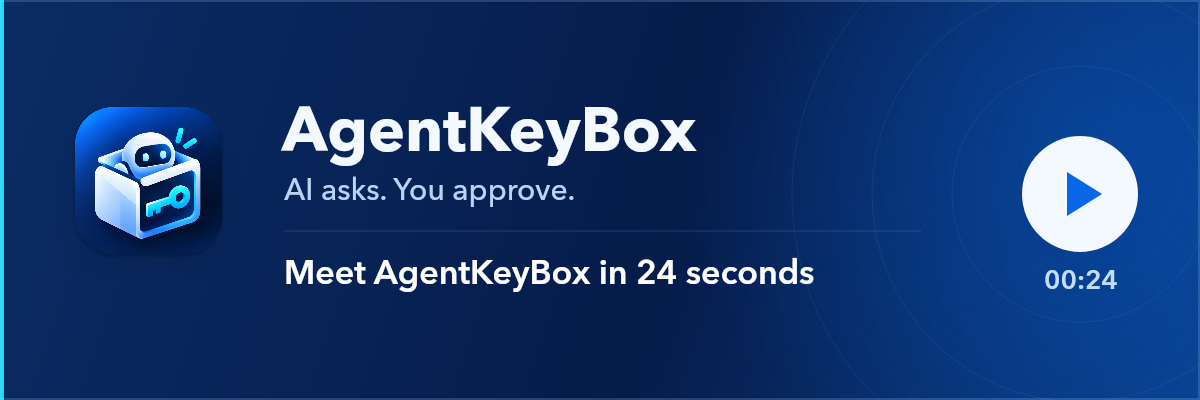
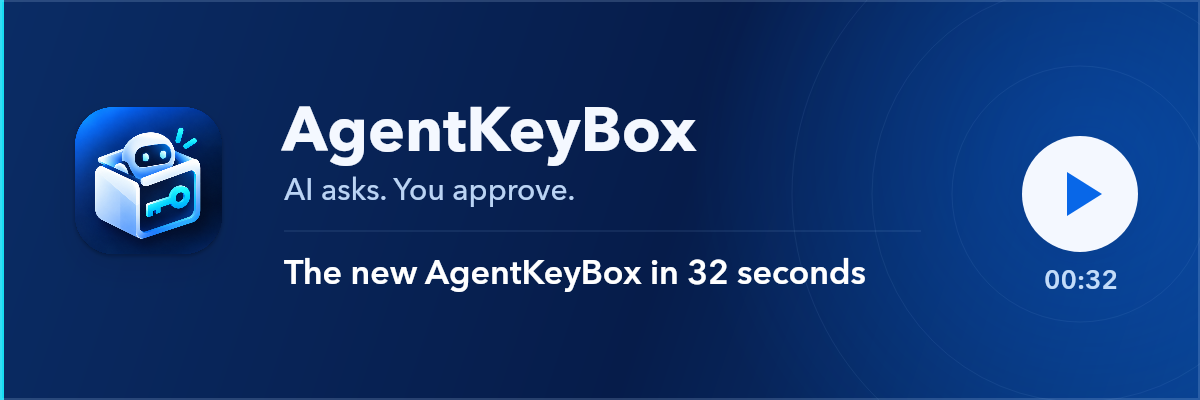
Point the README overview at the 32-second v2 video
The new English and Traditional Chinese videos cover key approval,
website sign-in in the private browser, cards and recovery codes.
Covers and alt text now say 32 seconds.

Changed region(s): [[0.2158, 0.63, 0.74, 0.75], [0.8942, 0.66, 0.9558, 0.72]]

diff --git a/README.md b/README.md
@@ -13,15 +13,15 @@ The product goal is to let agents complete approved tasks using sensitive data w
 AgentKeyBox is an experimental macOS utility for vibe coders, indie developers, and AI-first builders who do not want API keys scattered across `.env` files, notes, downloads, shell history, or chat windows.
 
 <p>
-  <a href="https://github.com/user-attachments/assets/9486ce5d-6f2d-4965-8226-f6cb88d1a5ad">
-    <img src="assets/promo/overview-en.png" alt="Play the 24-second AgentKeyBox overview: AI asks. You approve." width="560">
+  <a href="https://github.com/user-attachments/assets/b8d88193-c7d5-4c90-8a13-36bb57aea1e3">
+    <img src="assets/promo/overview-en.png" alt="Play the 32-second AgentKeyBox overview: AI asks. You approve." width="560">
   </a>
 </p>
 
 <details>
-<summary>▶ Watch here (24 seconds): project setup, key approval, and encrypted backups</summary>
+<summary>▶ Watch here (32 seconds): key approval, website sign-in in a private browser, cards and recovery codes</summary>
 
-https://github.com/user-attachments/assets/9486ce5d-6f2d-4965-8226-f6cb88d1a5ad
+https://github.com/user-attachments/assets/b8d88193-c7d5-4c90-8a13-36bb57aea1e3
 
 </details>
 

diff --git a/README.zh-TW.md b/README.zh-TW.md
@@ -13,15 +13,15 @@
 適合 vibe coder、獨立開發者，以及不想讓 API 金鑰散落在 `.env` 檔、筆記、下載資料夾、終端機紀錄或聊天視窗裡的人。
 
 <p>
-  <a href="https://github.com/user-attachments/assets/67c40066-8b6a-45d9-a958-31690b7f169e">
-    <img src="assets/promo/overview-zh-TW.png" alt="播放 24 秒 AgentKeyBox 介紹：AI 開口問，你來決定。" width="560">
+  <a href="https://github.com/user-attachments/assets/0f0558d3-f4b7-4528-9652-bf7aff291b3d">
+    <img src="assets/promo/overview-zh-TW.png" alt="播放 32 秒 AgentKeyBox 介紹：AI 開口問，你來決定。" width="560">
   </a>
 </p>
 
 <details>
-<summary>▶ 在此頁面播放 24 秒介紹：專案設定、金鑰使用核准與加密備份</summary>
+<summary>▶ 在此頁面播放 32 秒介紹：金鑰核准、私有瀏覽器代為登入、信用卡與復原碼</summary>
 
-https://github.com/user-attachments/assets/67c40066-8b6a-45d9-a958-31690b7f169e
+https://github.com/user-attachments/assets/0f0558d3-f4b7-4528-9652-bf7aff291b3d
 
 </details>
 
